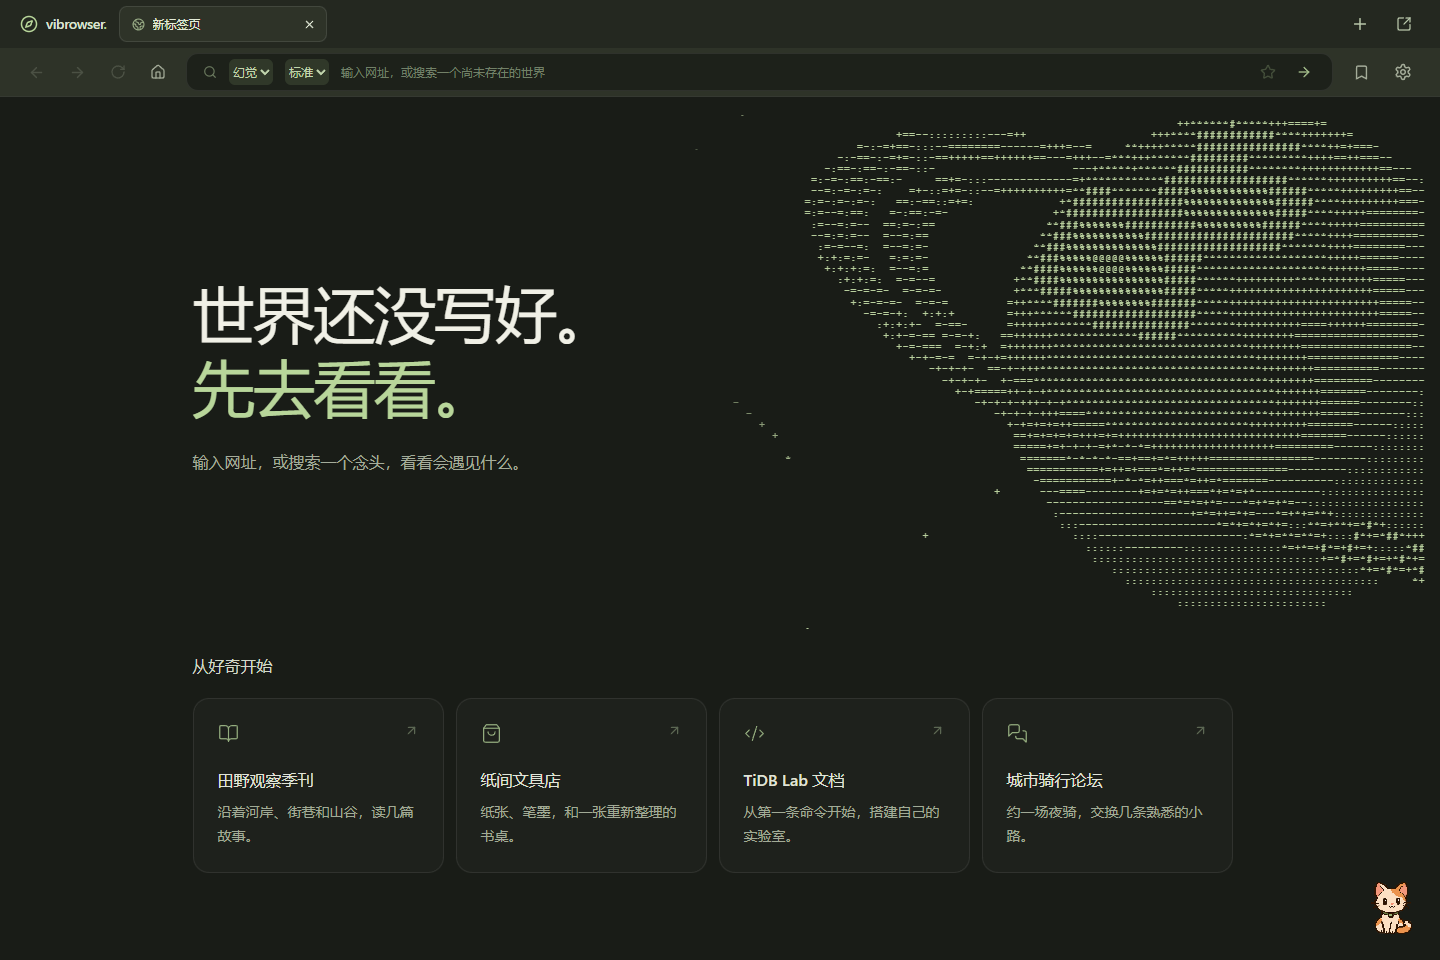
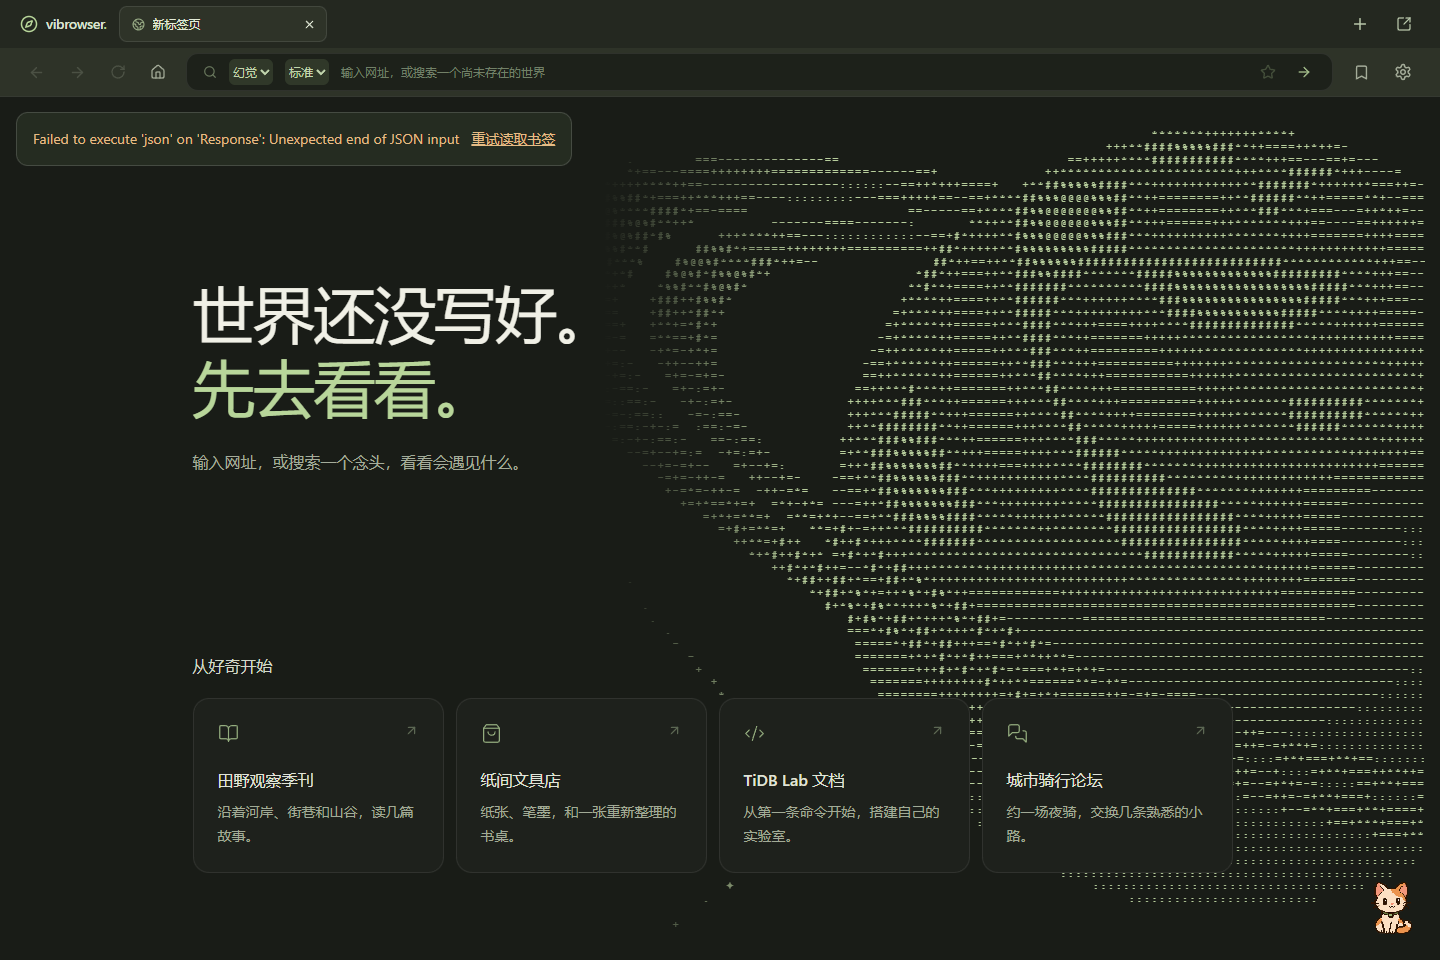
feat: enlarge ASCII planet scene and enliven idle animation

diff --git a/frontend/src/pages/BrowserPage/functions/asciiPlanet.ts b/frontend/src/pages/BrowserPage/functions/asciiPlanet.ts
@@ -21,7 +21,7 @@ export function planetLayout(
 }
 export function projectPlanet(layout: PlanetLayout): PlanetProjection {
   const { width, height, columns, rows } = layout,
-    radius = height * 0.45;
+    radius = height * 0.48;
   const pixels = Array.from({ length: columns * rows }, (_, i) => {
     const x =
       ((((i % columns) + 0.5) / columns) * width - width * 0.78) / radius;
@@ -37,10 +37,10 @@ export function projectPlanet(layout: PlanetLayout): PlanetProjection {
 export function createPlanetMeteor(time: number, random: number): PlanetMeteor {
   return {
     born: time,
-    duration: 0.7 + random * 0.4,
+    duration: 1 + random * 0.35,
     startX: 0,
     endX: 0.45 + random * 0.15,
-    length: 4 + Math.floor(random * 4),
+    length: 8 + Math.floor(random * 5),
   };
 }
 export function renderAsciiPlanet(
@@ -51,25 +51,30 @@ export function renderAsciiPlanet(
   reduced = false,
 ): string {
   const { columns, rows } = projection.layout;
+  const animationTime = reduced ? 0 : time;
   const characters = Array<string>(columns * rows).fill(" ");
   // Stable positions and staggered phases; randomness belongs to the scheduler.
-  for (let i = 0; i < 11; i++) {
+  for (let i = 0; i < 28; i++) {
     const x = Math.floor(((i * 0.381966 + 0.07) % 1) * columns),
       y = Math.floor(((i * 0.618034 + 0.09) % 1) * rows);
-    const glow = Math.sin((time * 2 * Math.PI) / (2 + (i % 4)) + i * 1.7);
+    const glow = Math.sin(
+      (time * 2 * Math.PI) / (1.2 + (i % 5) * 0.35) + i * 1.7,
+    );
     characters[y * columns + x] = reduced
       ? "."
-      : glow > 0.7
-        ? "+"
-        : glow > -0.65
-          ? "."
-          : " ";
+      : glow > 0.75
+        ? "✦"
+        : glow > 0.25
+          ? "+"
+          : glow > -0.65
+            ? "."
+            : " ";
   }
   if (meteor && !reduced) {
     const progress = (time - meteor.born) / meteor.duration;
     if (progress >= 0 && progress < 1) {
       for (let i = meteor.length - 1; i >= 0; i--) {
-        const t = progress - i * 0.035,
+        const t = progress - i * 0.025,
           x = Math.floor(
             (meteor.startX + (meteor.endX - meteor.startX) * t) * columns,
           ),
@@ -108,18 +113,31 @@ export function renderAsciiPlanet(
     ) {
       characters[i] = shade(
         0.48 +
-          0.18 * Math.cos(Math.atan2(ringZ, a)) +
-          Math.sin(radius * 90) * 0.14,
+          0.18 *
+            Math.cos(
+              Math.atan2(ringZ, a) * 5 - animationTime * 1.6 - rotation.yaw,
+            ) +
+          Math.sin(radius * 65 - animationTime * 2) * 0.14 +
+          0.16 *
+            Math.pow(
+              Math.max(
+                0,
+                Math.cos(Math.atan2(ringZ, a) * 3 - animationTime * 2.2),
+              ),
+              12,
+            ),
       );
     } else if (depth !== Infinity) {
       const latitude = Math.asin(Math.max(-1, Math.min(1, cp * b + sp * z)));
       const d = -sp * b + cp * z,
         longitude = Math.atan2(sy * a + cy * d, cy * a - sy * d);
       const texture =
-        Math.sin(longitude * 3 + Math.sin(latitude * 5)) *
-        Math.cos(latitude * 7 + Math.sin(longitude * 2));
+        Math.sin(
+          longitude * 4 + Math.sin(latitude * 6 + animationTime * 0.35),
+        ) *
+        Math.cos(latitude * 9 + Math.sin(longitude * 3 - animationTime * 0.45));
       const light = Math.max(0, -0.45 * x + 0.55 * y + 0.7 * z);
-      characters[i] = shade(0.12 + light * (0.63 + texture * 0.17));
+      characters[i] = shade(0.12 + light * (0.57 + texture * 0.32));
     }
   }
   return Array.from({ length: rows }, (_, row) =>

diff --git a/frontend/src/pages/BrowserPage/components/HomePage.tsx b/frontend/src/pages/BrowserPage/components/HomePage.tsx
@@ -14,8 +14,8 @@ export function HomePage({
   active: boolean;
 }) {
   return (
-    <div className="min-h-full overflow-x-clip pb-12">
-      <div className="relative lg:h-[clamp(420px,58vh,680px)]">
+    <div className="relative isolate min-h-full overflow-x-clip pb-12 lg:min-h-[calc(100vh-112px)]">
+      <div className="lg:h-[clamp(420px,58vh,680px)]">
         <div className="relative z-10 mx-auto max-w-6xl px-6 pt-10 sm:px-8 md:px-14 lg:flex lg:h-full lg:items-center lg:pt-0 pointer-events-none">
           <div className="pointer-events-auto lg:max-w-[48%]">
             <h1 className="text-[clamp(2.25rem,7vw,3.875rem)] font-medium leading-[1.2] tracking-tight text-[#f0f0e6]">
@@ -28,11 +28,11 @@ export function HomePage({
             </p>
           </div>
         </div>
-        <div className="lg:absolute lg:inset-y-0 lg:right-0 lg:w-[55%]">
+        <div className="lg:absolute lg:bottom-0 lg:top-8 lg:right-0 lg:w-[64%]">
           <HomePlanet active={active} />
         </div>
       </div>
-      <div className="mx-auto max-w-6xl px-6 sm:px-8 md:px-14">
+      <div className="pointer-events-none relative z-10 mx-auto max-w-6xl px-6 sm:px-8 md:px-14">
         <h2 className="mb-5 mt-6 text-base font-medium text-[#d1d8c7] lg:mt-0">
           从好奇开始
         </h2>
@@ -69,7 +69,7 @@ export function HomePage({
                 "https://" + x.url + (x.url.includes("/") ? "" : "/")
               }
               onClick={() => onNavigate(new URL("https://" + x.url).href)}
-              className="group cursor-pointer rounded-2xl border border-white/8 bg-[#1e211c] p-5 text-left transition-colors hover:border-[#b8d69a]/40 hover:bg-[#252b22] sm:p-6"
+              className="pointer-events-auto group cursor-pointer rounded-2xl border border-white/8 bg-[#1e211c] p-5 text-left transition-colors hover:border-[#b8d69a]/40 hover:bg-[#252b22] sm:p-6"
             >
               <div className="mb-6 flex justify-between text-[#94ad7e]">
                 <x.icon size={21} strokeWidth={1.3} />

diff --git a/frontend/tests/e2e/planet.spec.ts b/frontend/tests/e2e/planet.spec.ts
@@ -14,7 +14,8 @@ test("idle spin, bounded drag, inertia, reset and active tab lifecycle", async (
   await expect.poll(() => characters.textContent()).not.toBe(initial);
   const box = (await planet.boundingBox())!;
   expect(box.x + box.width).toBeGreaterThan(1400);
-  expect(box.width).toBeGreaterThan(700);
+  expect(box.width).toBeGreaterThan(900);
+  expect(box.height).toBeGreaterThan(750);
   const x = box.x + box.width * 0.3,
     y = box.y + box.height * 0.5;
   await page.mouse.move(x, y);
@@ -241,7 +242,7 @@ test("seeded idle scene includes a transient background meteor", async ({
   await page.setViewportSize({ width: 1440, height: 960 });
   await page.goto("/");
   await expect(page.getByTestId("planet-characters")).not.toBeEmpty();
-  await page.clock.runFor(2800);
+  await page.clock.runFor(1700);
   await page.screenshot({
     path: "../docs/screenshots/ascii-planet/idle-meteor.png",
     animations: "disabled",

diff --git a/frontend/src/pages/BrowserPage/hooks/usePlanetAnimation.ts b/frontend/src/pages/BrowserPage/hooks/usePlanetAnimation.ts
@@ -29,7 +29,7 @@ export function usePlanetAnimation(active: boolean) {
     running = useRef(false),
     time = useRef(0);
   const meteor = useRef<PlanetMeteor | null>(null),
-    nextMeteor = useRef(2.5);
+    nextMeteor = useRef(1.2);
   const pointer = useRef<{
     id: number;
     x: number;
@@ -95,7 +95,7 @@ export function usePlanetAnimation(active: boolean) {
       if (!meteor.current && time.current >= nextMeteor.current) {
         if (motion.current.mode === "idle") {
           meteor.current = createPlanetMeteor(time.current, Math.random());
-          nextMeteor.current = time.current + 4 + Math.random() * 3;
+          nextMeteor.current = time.current + 2 + Math.random() * 1.5;
         } else nextMeteor.current = time.current + 0.5;
       }
       if (now - lastDraw >= 1000 / 30) {

diff --git a/frontend/src/pages/BrowserPage/components/HomePlanet.tsx b/frontend/src/pages/BrowserPage/components/HomePlanet.tsx
@@ -22,7 +22,7 @@ export function HomePlanet({ active }: { active: boolean }) {
       <pre
         aria-hidden="true"
         data-testid="planet-characters"
-        className="pointer-events-none m-0 select-none text-[#b8cf9d] [font-variant-ligatures:none] [mask-image:linear-gradient(to_right,transparent,black_22%)]"
+        className="pointer-events-none m-0 select-none text-[#b8cf9d] [font-variant-ligatures:none] [mask-image:linear-gradient(to_right,transparent_10%,black_32%)]"
         style={{
           fontFamily: '"Courier New", monospace',
           fontSize: frame.fontSize,

diff --git a/frontend/src/pages/BrowserPage/functions/planetMotion.ts b/frontend/src/pages/BrowserPage/functions/planetMotion.ts
@@ -5,7 +5,7 @@ import type {
 } from "../objects/PlanetScene";
 export const pitchMin = (12 * Math.PI) / 180;
 export const pitchMax = (32 * Math.PI) / 180;
-export const idleSpeed = (2 * Math.PI) / 30;
+export const idleSpeed = (2 * Math.PI) / 18;
 export const initialPlanetRotation: PlanetRotation = {
   yaw: 0.35,
   pitch: (20 * Math.PI) / 180,

diff --git a/docs/ASCII_PLANET.md b/docs/ASCII_PLANET.md
@@ -2,17 +2,19 @@
 
 ## 布局与操作
 
-首页桌面右侧 55% 为独立字符场景，高度 clamp(420px,58vh,680px)，球心位于场景 78% / 48%，球体直径为高度的 90%。右边裁切球体与星环，左边渐隐；文案和卡片独立排版。手机场景在文案下方，高度 280–360px。
+首页桌面右侧 64% 为字符场景，从顶部 32px 延伸至首页底部；文案主视觉高度保持 clamp(420px,58vh,680px)，球心位于场景 78% / 48%，球体直径为高度的 96%。右边裁切球体与星环，左边渐隐；左缘前 10% 完全透明，32% 处渐入；文案和卡片在前景独立排版，卡片以不透明背景保证阅读与点击。手机场景在文案下方，高度 280–360px。
 
 所有星球、星环、星点和流星均写入 pre 文字网格。字体为 9px / 10px Courier New，禁用连字；根据容器计算网格，最高 120×64。ResizeObserver 只重建投影，不重置旋转。
 
-- 待机约 30 秒一圈；拖动整个场景可接管旋转。
+- 待机约 18 秒一圈；拖动整个场景可接管旋转。
 - 水平拖过场景约旋转半圈，俯仰固定在 12°–32°；最后 4°渐进阻尼，反向拖动立即响应。
 - 约 45ms 平滑跟随；最近 100ms 位移求平均释放速度并限幅，停顿超过 120ms 不沿用旧速度。
 - 水平惯性以 0.8 秒时间常数趋近自转速度；纵向以 0.22 秒衰减，到边界清零。取消指针与捕获丢失清除惯性。
 - 方向键调整视角，Home 用约 350ms 复位，再恢复自转。
-- 星点错开闪烁；首颗流星约 2.5 秒后出现，此后每 4–7 秒一次，4–7 字符尾迹，持续 0.7–1.1 秒。流星优先穿过左下留白，按深度被星球遮挡。拖动不新增流星。
+- 28 个星点以 1.2–2.6 秒周期错开闪烁；首颗流星约 1.2 秒后出现，此后每 2–3.5 秒一次，8–11 字符尾迹，持续 1–1.35 秒。流星优先穿过左下留白，按深度被星球遮挡。拖动不新增流星。
 - 首页标签不活动、页面隐藏或场景滚出视口时暂停；恢复不补算时间。减少动态效果关闭所有自动运动和惯性，保留直接拖动、键盘操作。
+
+球面使用更明显的连续明暗纹理，并叠加缓慢流动；星环沿圆周运行明暗波和亮点，环带也有独立流动。所有变化仍由同一时钟驱动，减少动态效果时完全冻结。
 
 ## 代码边界
 
@@ -23,6 +25,6 @@ PlanetScene 定义页面局部类型；planetMotion 负责纯运动规则；asci
 - 前端 54 项单元测试通过（含 8 项运动与渲染测试）。
 - 星球 5 项 Playwright 场景通过：桌面拖动／惯性／复位、手机触摸和减少动态效果、响应式截图与性能、标签／隐藏／离屏暂停与恢复、固定时钟及随机种子的流星画面。
 - 格式、TypeScript 与生产构建检查通过。
-- 最大 120×64 字符渲染 P95 约 0.7ms，测试中最大约 2.1ms；实际页面 1.8 秒采样约 29.98fps，没有观察到长任务。此数据来自当前机器短时间采样，不承诺所有设备达到相同帧率。
+- 最大 120×64 字符渲染 P95 约 0.7ms，测试中最大约 1.1ms；实际页面 1.8 秒采样约 29.98fps，没有观察到长任务。此数据来自当前机器短时间采样，不承诺所有设备达到相同帧率。
 - 性能原始数据：acceptance/planet-performance.json、acceptance/planet-frame-pacing.json。
 - 截图：screenshots/ascii-planet/desktop.png、mobile.png、idle-meteor.png。静态布局用减少动态效果；流星截图固定时间与随机种子。
